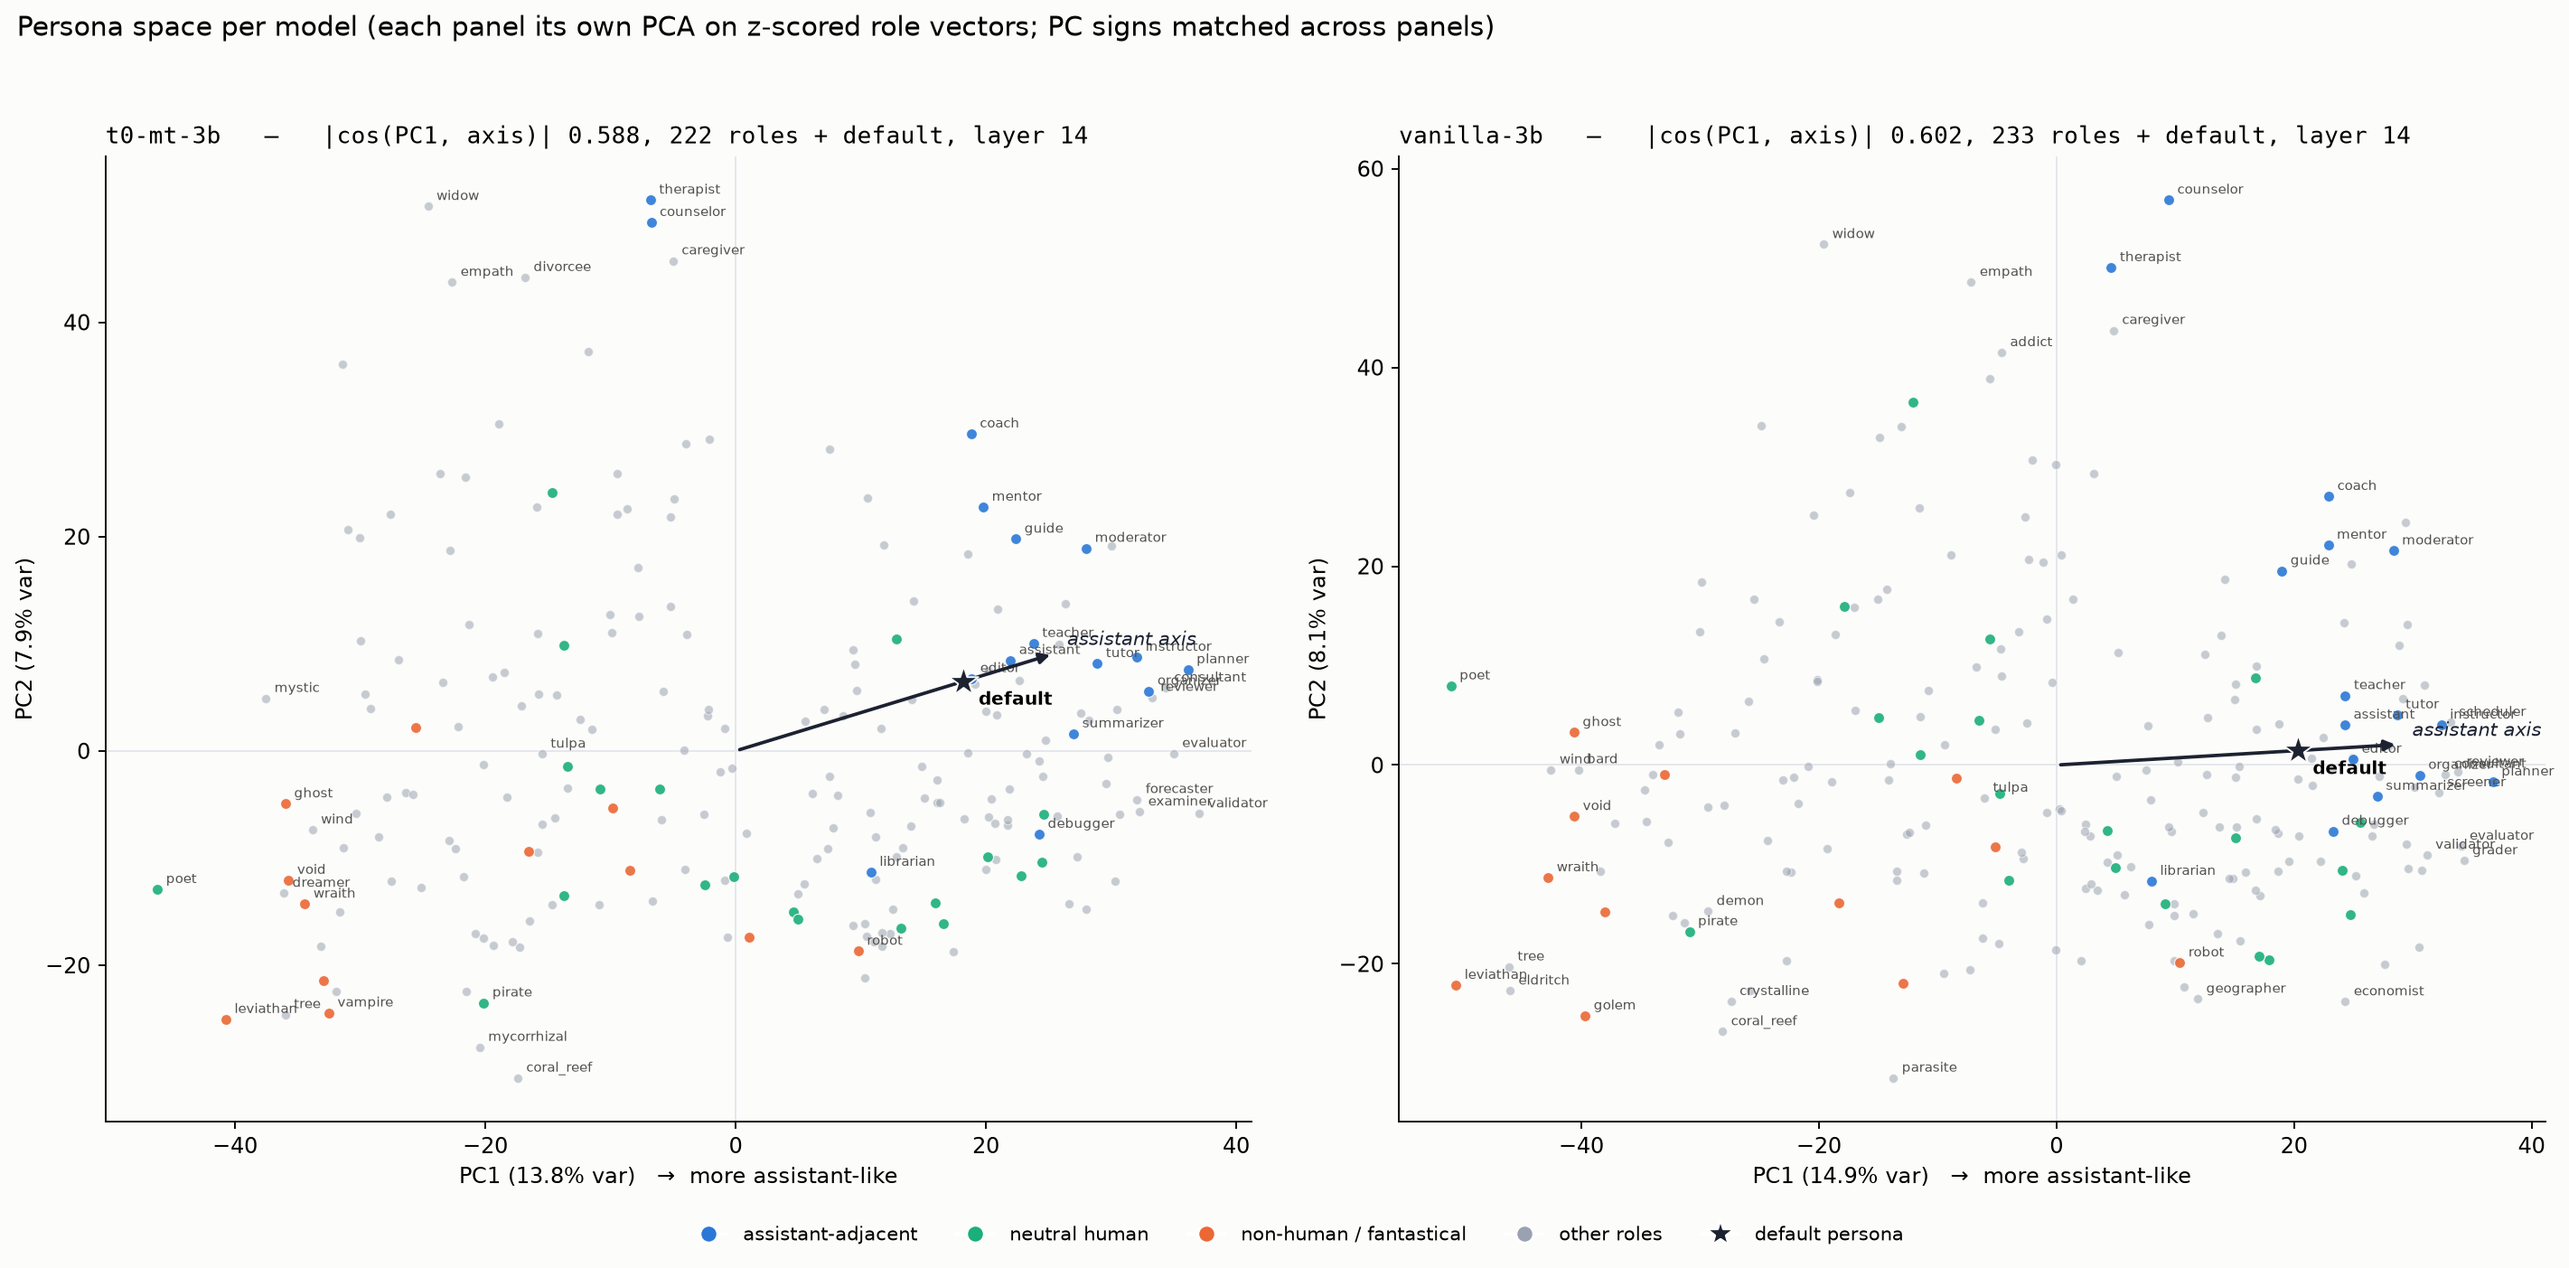
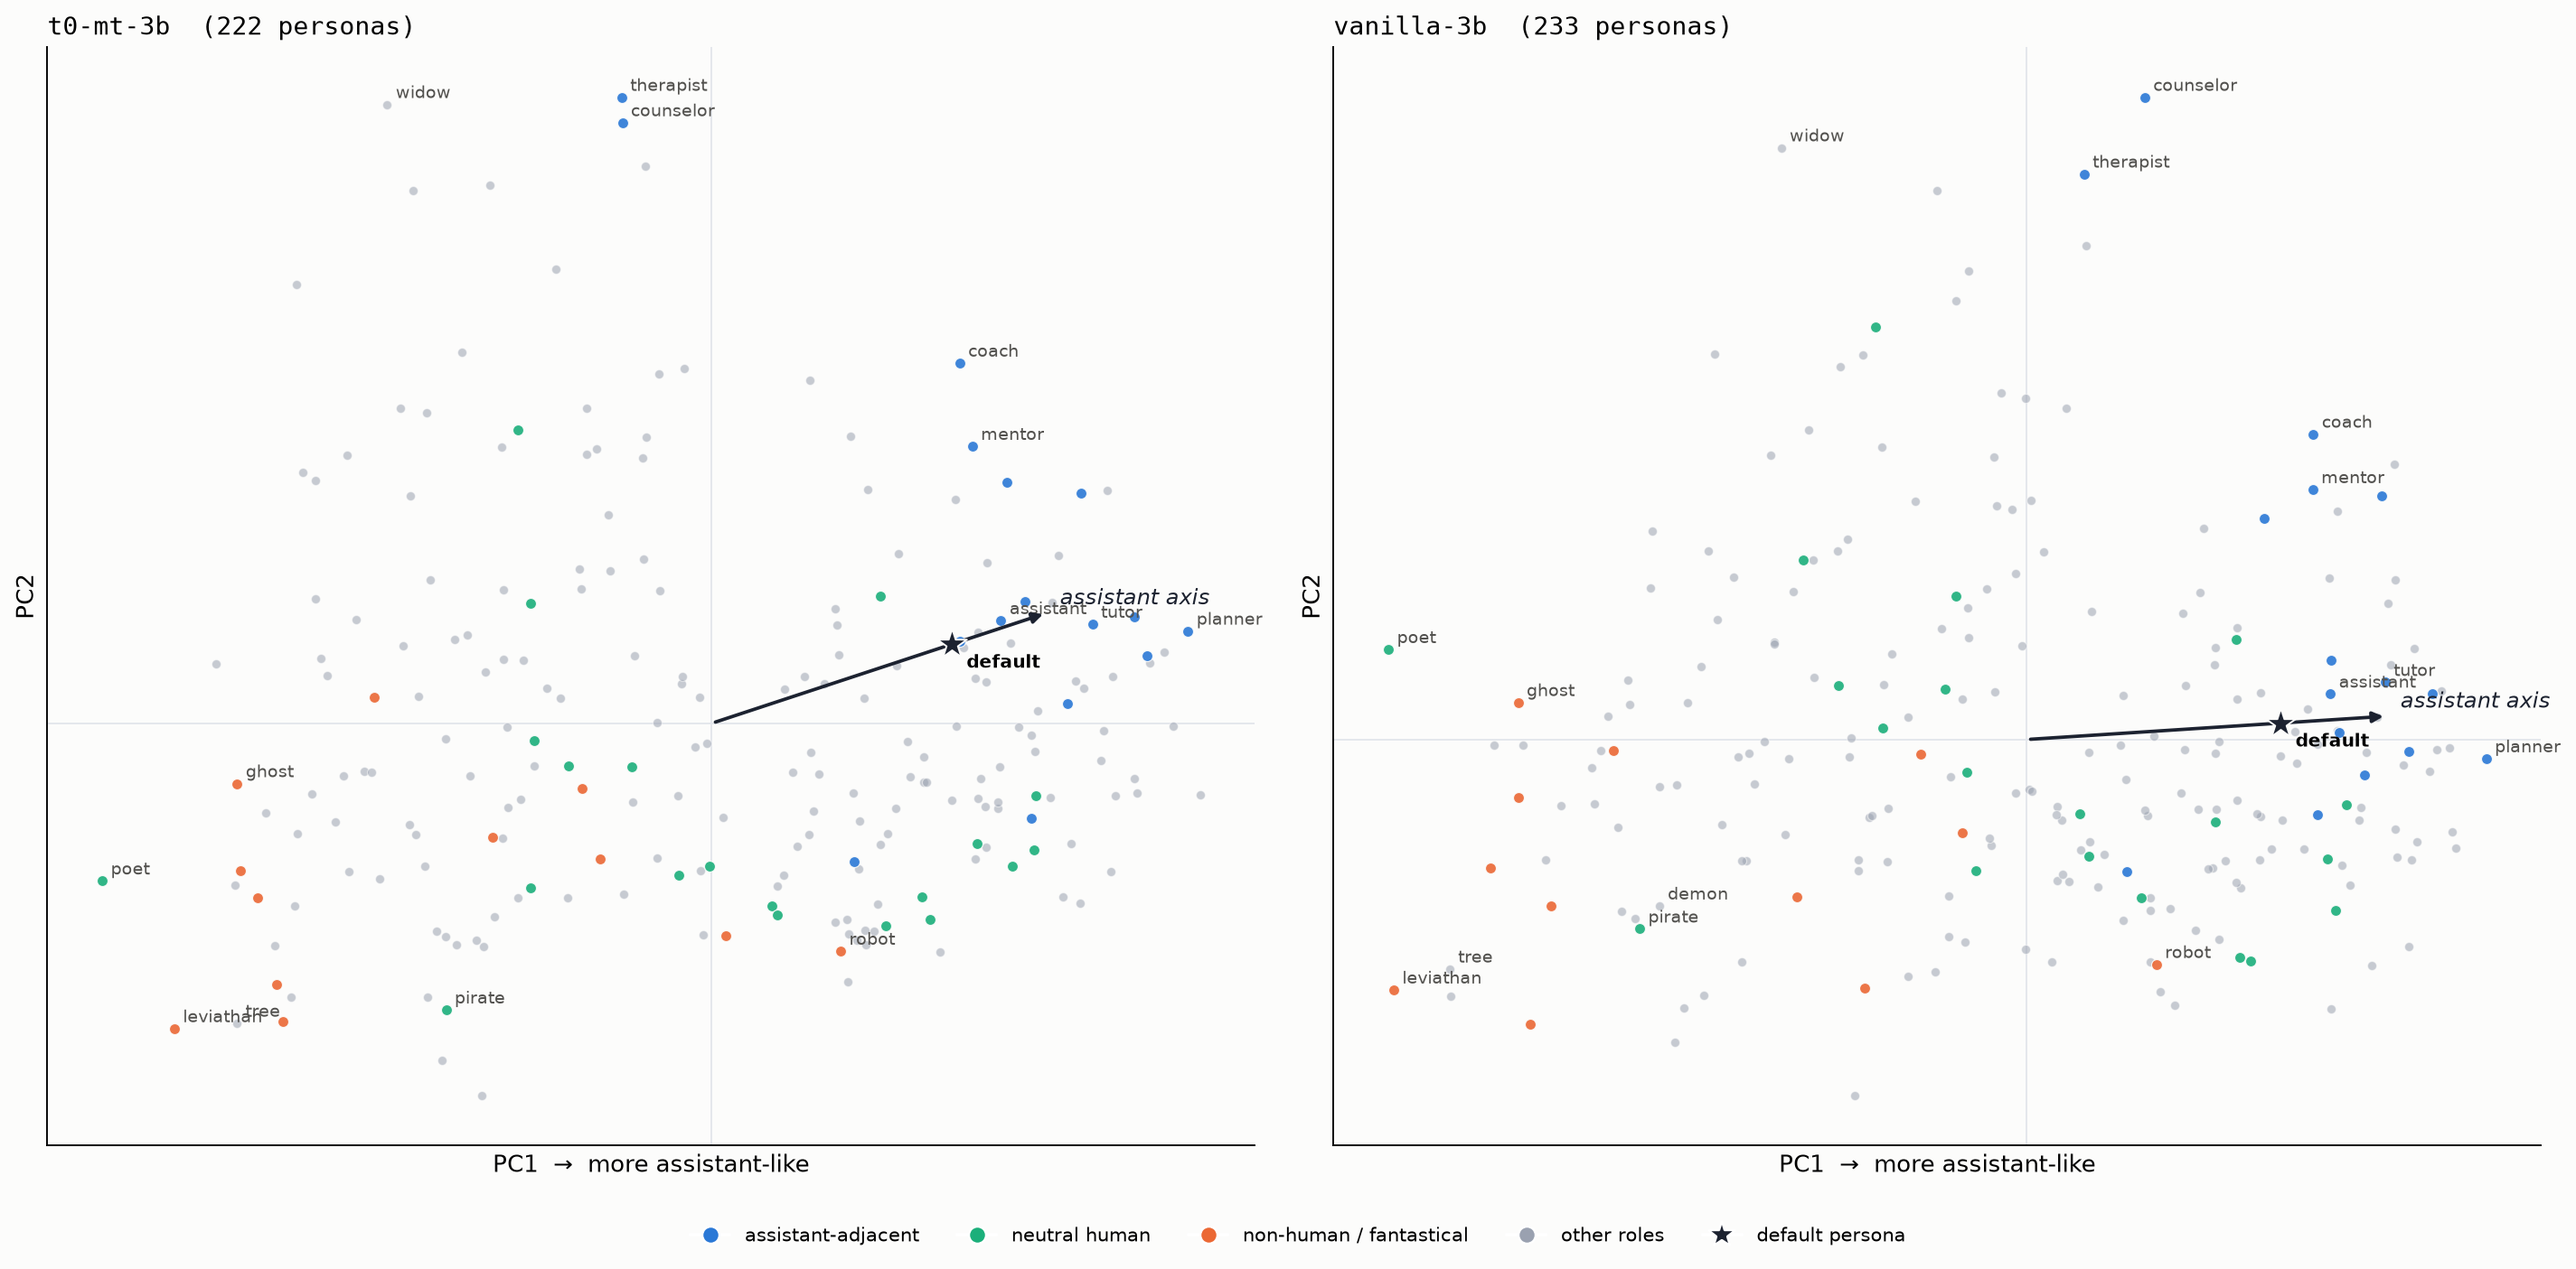
figures: simplify side-by-side and movement plots (less text, fewer labels)

diff --git a/scripts/plot_side_by_side.py b/scripts/plot_side_by_side.py
@@ -97,33 +97,30 @@ def main():
         ax.annotate("", xy=(v[0], v[1]), xytext=(0, 0),
                     arrowprops=dict(arrowstyle="-|>", color="#1c2230", lw=1.6), zorder=6)
         ax.annotate("assistant axis", (v[0], v[1]), xytext=(6, 4), textcoords="offset points",
-                    fontsize=9, fontstyle="italic", color="#1c2230", zorder=6)
+                    fontsize=10, fontstyle="italic", color="#1c2230", zorder=6)
         ax.scatter([pd["pdef"][0]], [pd["pdef"][1]], s=210, marker="*", c="#1c2230",
                    edgecolors="#fcfcfb", linewidths=0.8, zorder=7)
         ax.annotate("default", (pd["pdef"][0], pd["pdef"][1]), xytext=(7, -11),
                     textcoords="offset points", fontsize=8.5, fontweight="bold", zorder=7)
-        # labels: PC1/PC2 extremes + all assistant-adjacent + a few interest roles
-        to_label = set(np.argsort(P[:, 0])[:9]) | set(np.argsort(P[:, 0])[-9:]) \
-                 | set(np.argsort(P[:, 1])[:6]) | set(np.argsort(P[:, 1])[-6:]) \
-                 | {i for i, c in enumerate(cats) if c == "assistant_adjacent"} \
-                 | {i for i, n in enumerate(names) if n in ("robot", "tulpa", "pirate", "demon", "poet")}
-        for i in to_label:
-            ax.annotate(names[i], (P[i, 0], P[i, 1]), xytext=(4, 3), textcoords="offset points",
-                        fontsize=6.4, color="#52514e", zorder=5)
+        # label only a handful of iconic personas
+        PICK = {"poet", "leviathan", "ghost", "tree", "therapist", "counselor", "widow",
+                "coach", "mentor", "assistant", "planner", "tutor", "robot", "pirate", "demon"}
+        for i, n in enumerate(names):
+            if n in PICK:
+                ax.annotate(n, (P[i, 0], P[i, 1]), xytext=(4, 3), textcoords="offset points",
+                            fontsize=8, color="#52514e", zorder=5)
         ax.axhline(0, color="#e3e6ec", lw=0.8, zorder=1); ax.axvline(0, color="#e3e6ec", lw=0.8, zorder=1)
-        ax.set_xlabel(f"PC1 ({pd['var'][0]:.1%} var)   →  more assistant-like", fontsize=10)
-        ax.set_ylabel(f"PC2 ({pd['var'][1]:.1%} var)", fontsize=10)
-        ax.set_title(f"{key}   —   |cos(PC1, axis)| {pd['cos1']:.3f}, {len(names)} roles + default, layer {args.layer}",
-                     fontsize=11, loc="left", fontfamily="monospace")
+        ax.set_xlabel("PC1  →  more assistant-like", fontsize=11)
+        ax.set_ylabel("PC2", fontsize=11)
+        ax.set_title(f"{key}  ({len(names)} personas)", fontsize=12, loc="left", fontfamily="monospace")
+        ax.set_xticks([]); ax.set_yticks([])
         for s in ("top", "right"):
             ax.spines[s].set_visible(False)
     handles = [Line2D([0], [0], marker="o", color="w", markerfacecolor=c, markersize=8, label=LABELS[k])
                for k, c in COLORS.items()]
     handles.append(Line2D([0], [0], marker="*", color="w", markerfacecolor="#1c2230", markersize=13, label="default persona"))
     fig.legend(handles=handles, loc="lower center", ncol=5, frameon=False, fontsize=9, bbox_to_anchor=(0.5, -0.01))
-    fig.suptitle("Persona space per model (each panel its own PCA on z-scored role vectors; PC signs matched across panels)",
-                 fontsize=12.5, x=0.01, ha="left")
-    fig.tight_layout(rect=(0, 0.03, 1, 0.95))
+    fig.tight_layout(rect=(0, 0.04, 1, 1))
     fig.savefig(args.out, dpi=170, bbox_inches="tight", facecolor=fig.get_facecolor())
     print("wrote", args.out)
     # cross-panel loading correlations for the caption

diff --git a/scripts/spp_vs_vanilla_analysis.py b/scripts/spp_vs_vanilla_analysis.py
@@ -194,14 +194,12 @@ def main():
     ax.annotate("default (vanilla)", (zda[1], zda[0]), xytext=(7, 5), textcoords="offset points", fontsize=8, fontweight="bold")
     ax.annotate("default (SPP)", (zdb[1], zdb[0]), xytext=(7, -11), textcoords="offset points", fontsize=8, fontweight="bold", color="#c0392b")
     order = np.argsort(resid)
-    for i in list(order[-10:]) + list(order[:5]):
+    for i in list(order[-7:]) + list(order[:3]):
         ax.annotate(shared[i], (Zb[i, 1], Zb[i, 0]), xytext=(4, 3), textcoords="offset points", fontsize=6.5, color="#52514e")
-    ax.set_xlabel("PC2 of the aligned union", fontsize=10)
-    ax.set_ylabel("PC1 of the aligned union   →  more assistant-like", fontsize=10)
-    ax.set_title(f"(a) Persona movement after optimal alignment (layer {L}) — ● vanilla → ◇ SPP\n"
-                 f"Procrustes disparity {M['procrustes_disparity']:.2f}: only {M['procrustes_disparity']:.0%} of variance "
-                 "is not explained by a rigid rotation between the two pretraining runs",
-                 fontsize=10, loc="left")
+    ax.set_xlabel("PC2", fontsize=11)
+    ax.set_ylabel("PC1  →  more assistant-like", fontsize=11)
+    ax.set_xticks([]); ax.set_yticks([])
+    ax.set_title("(a) Persona movement (dot = vanilla, diamond = SPP)", fontsize=11.5, loc="left")
     handles = [Line2D([0], [0], marker="o", color="w", markerfacecolor=c, markersize=8, label=cat) for cat, c in COLORS.items()]
     ax.legend(handles=handles, loc="lower left", frameon=False, fontsize=8)
 
@@ -219,15 +217,15 @@ def main():
     ax2.text(np.median(resid), ys[0] + 1.2, " median role", fontsize=8, color="#52514e")
     ax2.axvline(M["default_resid"], color="#c0392b", lw=1.2, ls=":")
     ax2.text(M["default_resid"], ys[-1] - 1.4, " default persona", fontsize=8, color="#c0392b")
-    ax2.set_xlabel("residual displacement after alignment (z-scored units)", fontsize=9)
-    ax2.set_title("(b) Most / least moved personas\n(top: most displaced — bottom block: most conserved)",
-                  fontsize=10, loc="left")
+    ax2.set_xlabel("movement after alignment", fontsize=10)
+    ax2.set_xticks([])
+    ax2.set_title("(b) Most and least moved personas", fontsize=11.5, loc="left")
     for a in (ax, ax2):
         for sp in ("top", "right"):
             a.spines[sp].set_visible(False)
-    fig.suptitle("Synthetic persona pretraining barely moves the persona landscape — and what moves is not the assistant",
-                 fontsize=12.5, x=0.01, ha="left")
-    fig.tight_layout(rect=(0, 0, 1, 0.95))
+    fig.suptitle("Synthetic persona pretraining barely moves the persona landscape",
+                 fontsize=13, x=0.01, ha="left")
+    fig.tight_layout(rect=(0, 0, 1, 0.96))
     fig.savefig(figdir / "spp_persona_movement.png", dpi=170, bbox_inches="tight", facecolor=fig.get_facecolor())
     plt.close(fig)
 
